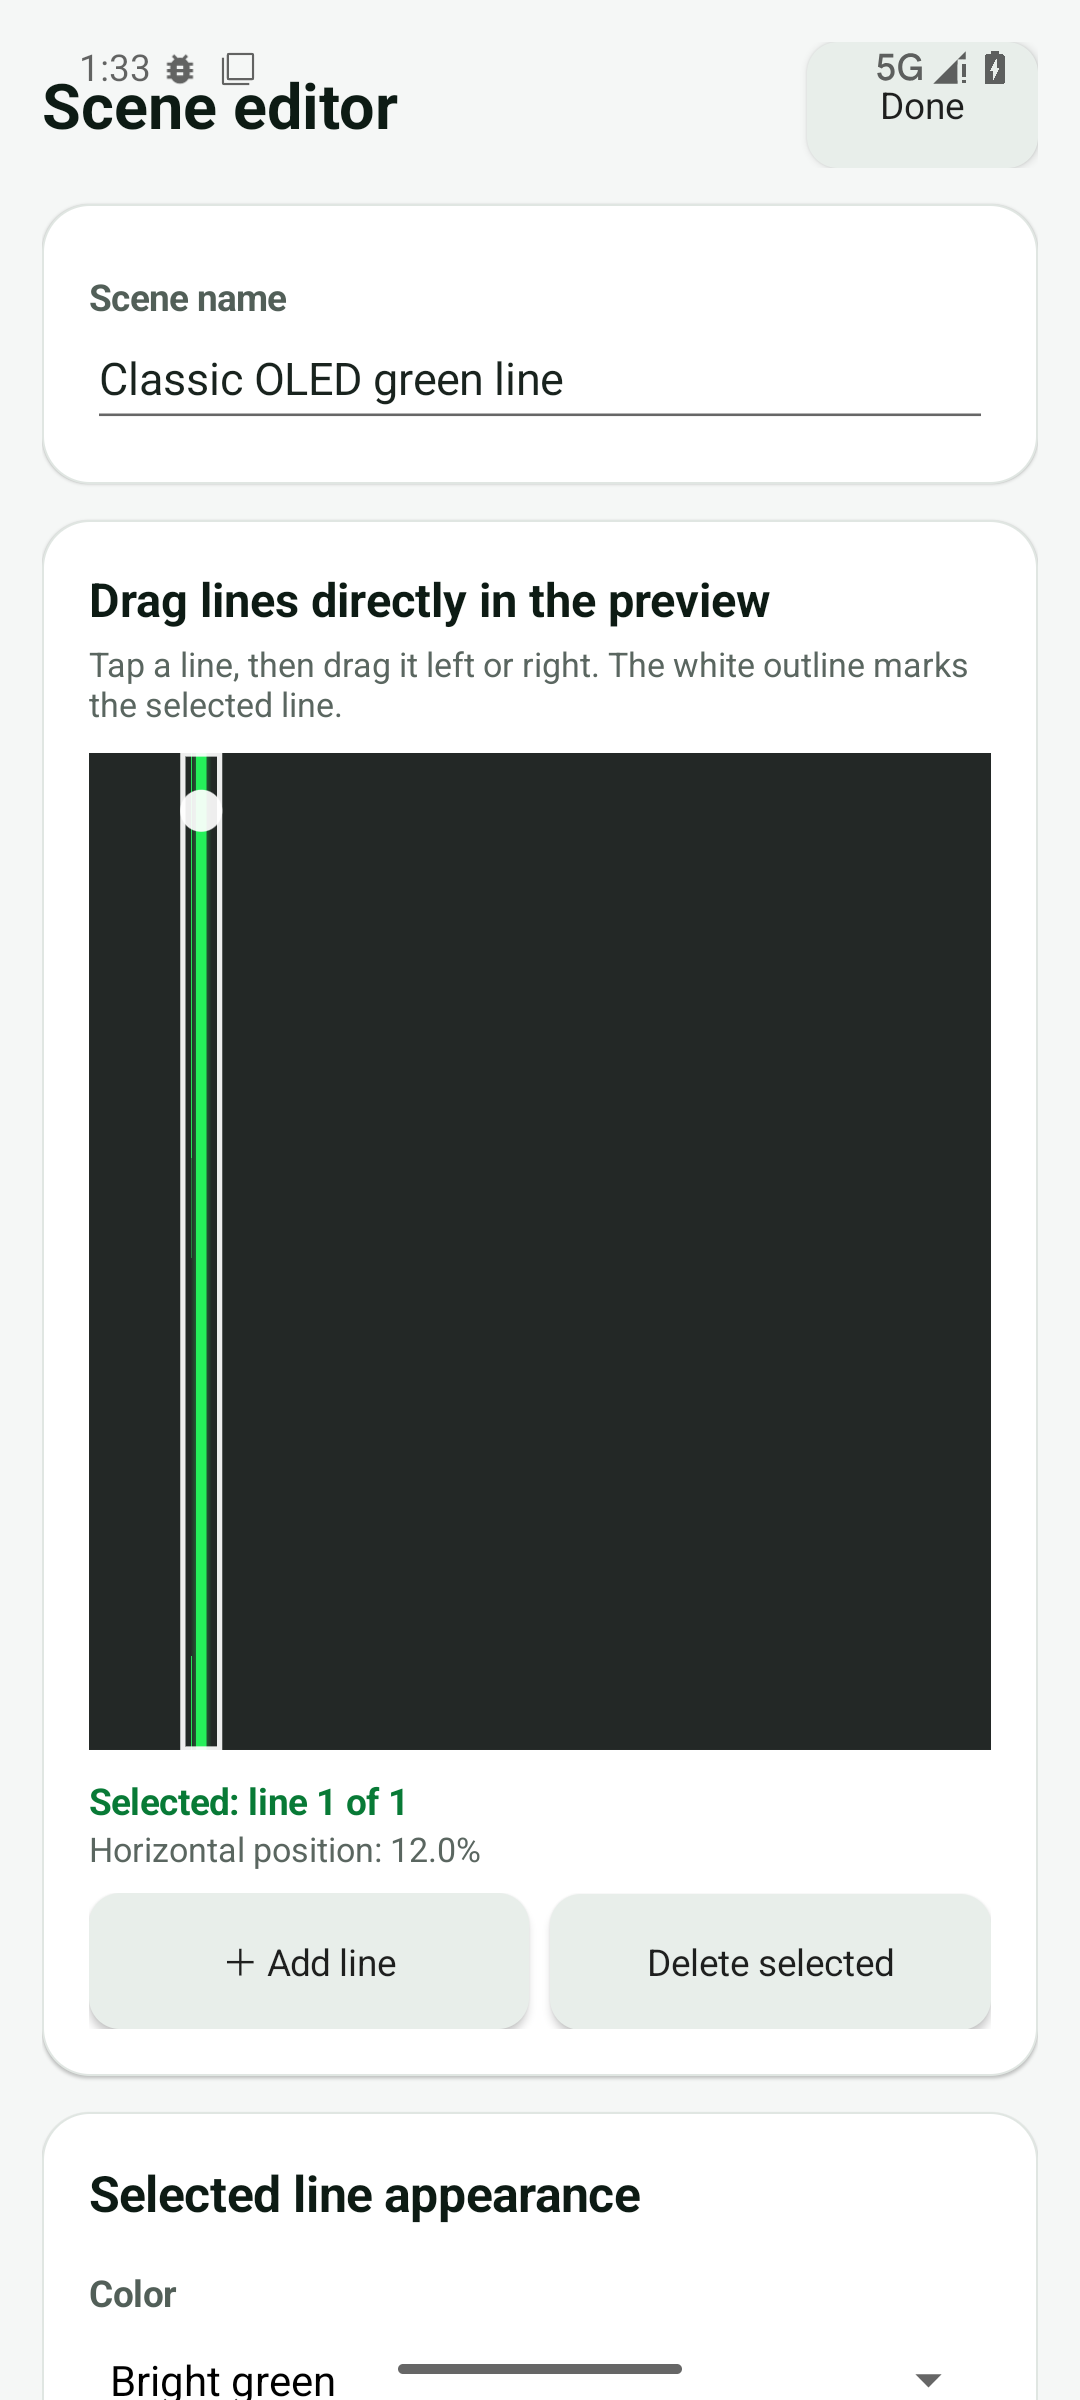
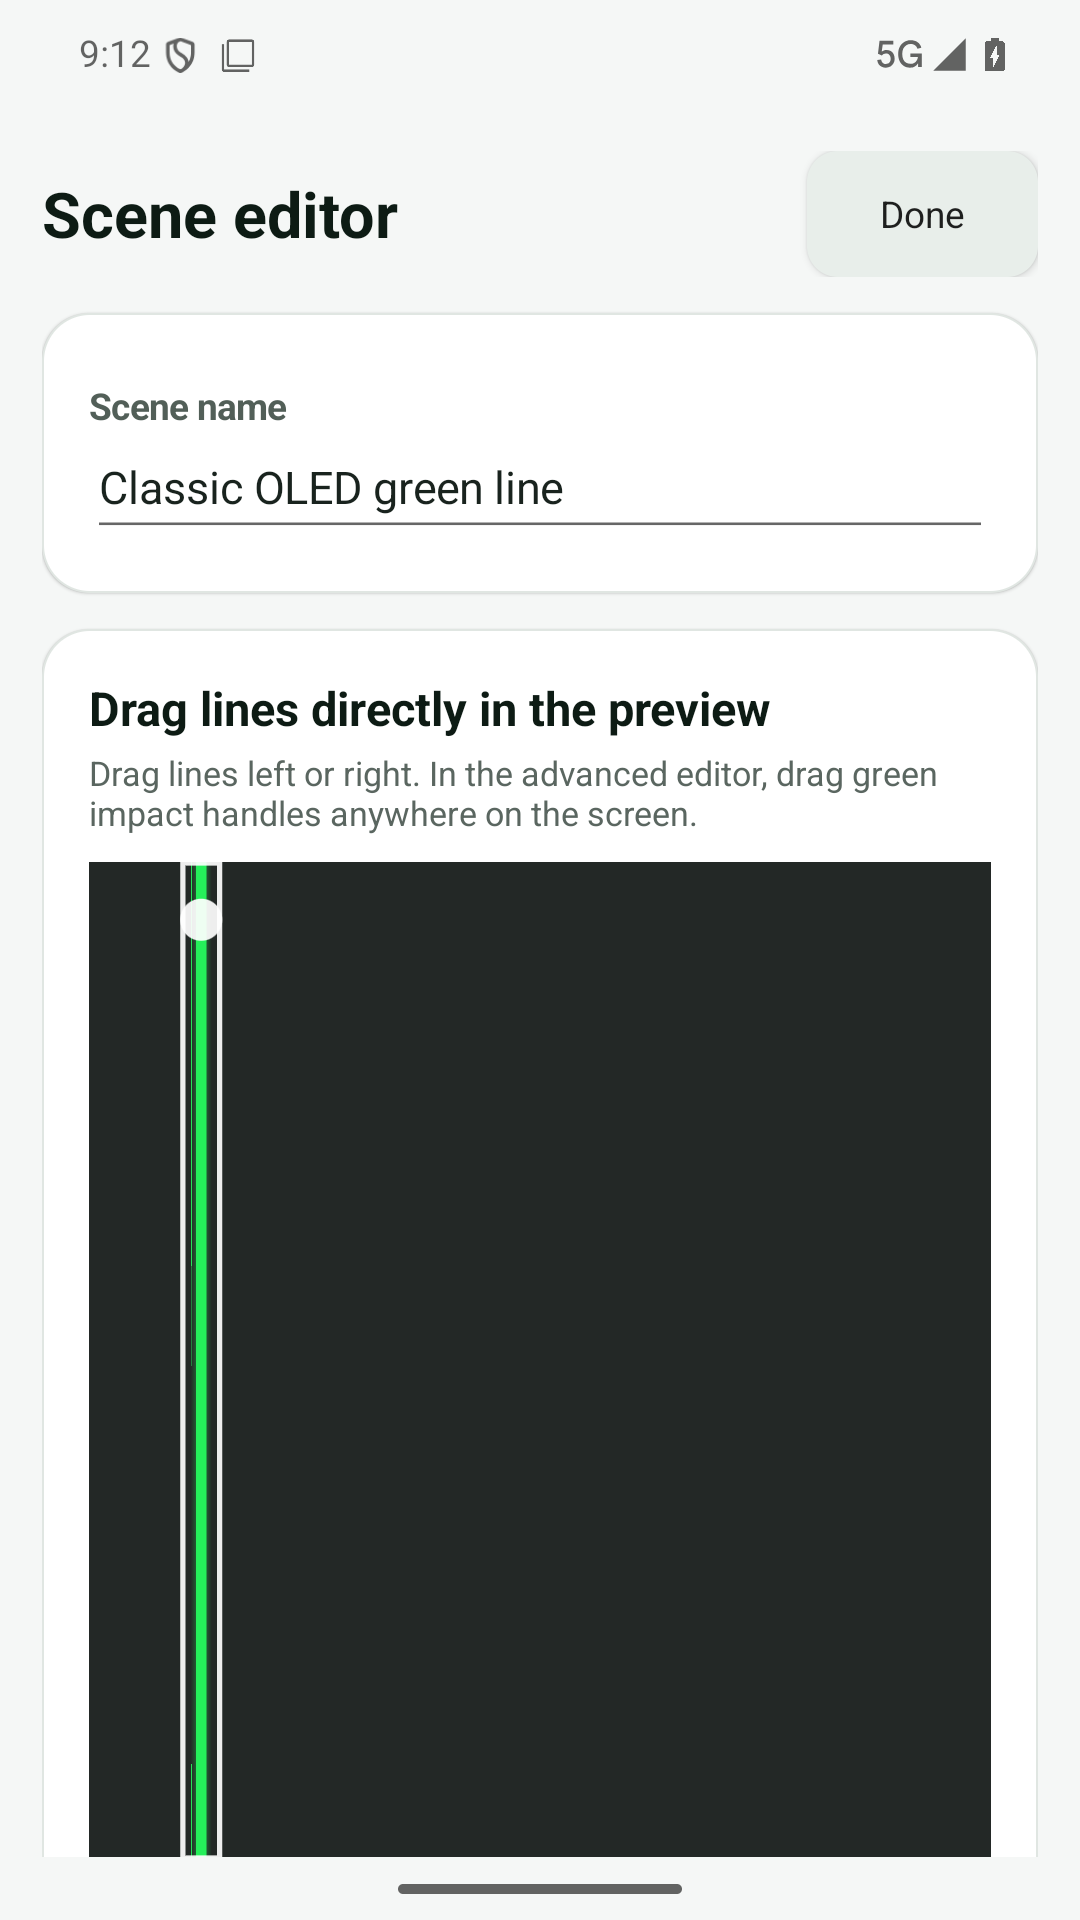
Refresh GitHub screenshots for v1.9.0

diff --git a/README.en.md b/README.en.md
@@ -12,15 +12,15 @@ Display Fault Simulator is an Android app that recreates common panel-failure vi
 
 ## Screenshots
 
-These screenshots were captured from real builds running on an Android 16 emulator. The overlay screenshot confirms that the line reaches the physical top and bottom display bounds, including the status and navigation-bar areas.
+All images below were captured from the v1.9.0 release APK running on an Android 16 emulator. They are not composited mockups.
 
-| Full-screen overlay | Scene editor |
+| v1.9.0 Traditional Chinese settings | v1.9.0 English settings |
 | --- | --- |
-| <img src="docs/screenshots/overlay-en.png" width="300" alt="Green OLED line spanning the full Android home screen"> | <img src="docs/screenshots/editor-en.png" width="300" alt="Scene editor with direct line dragging"> |
+| <img src="docs/screenshots/main-zh-TW.png" width="300" alt="Display Fault Simulator v1.9.0 modern Traditional Chinese settings screen"> | <img src="docs/screenshots/main-en.png" width="300" alt="Display Fault Simulator v1.9.0 modern English settings screen"> |
 
-| English interface | Traditional Chinese interface |
+| Drag scene editor | Deep-black left-edge panel rupture |
 | --- | --- |
-| <img src="docs/screenshots/main-en.png" width="300" alt="Display Fault Simulator English interface"> | <img src="docs/screenshots/main-zh-TW.png" width="300" alt="螢幕故障模擬器繁體中文介面"> |
+| <img src="docs/screenshots/editor-en.png" width="300" alt="v1.9.0 scene editor with direct line dragging"> | <img src="docs/screenshots/preset-left-edge-shatter.png" width="300" alt="Irregular deep-black panel rupture attached to the left display edge"> |
 
 ### Preset effects
 
@@ -33,10 +33,6 @@ These are real full-screen captures from the Android 16 emulator, not composited
 | Heavy dead pixels | Aged LCD scanlines | Severe damage |
 | --- | --- | --- |
 | <img src="docs/screenshots/preset-dead-pixels.png" width="220" alt="Heavy dead pixels preset"> | <img src="docs/screenshots/preset-old-lcd.png" width="220" alt="Aged LCD scanlines preset"> | <img src="docs/screenshots/preset-severe-damage.png" width="220" alt="Severe composite damage preset"> |
-
-| Severe left-edge shatter with black panel rupture |
-| --- |
-| <img src="docs/screenshots/preset-left-edge-shatter.png" width="300" alt="Irregular deep-black panel rupture growing from the left display edge"> |
 
 ## Highlights
 

diff --git a/docs/release-notes-v1.9.0.md b/docs/release-notes-v1.9.0.md
@@ -14,4 +14,8 @@
 - Fixed settings UI overlap with status bars, display cutouts, and navigation bars on Android 15/16
 - Added five left-edge crack presets for foldables: upper corner, lower edge, hinge hairlines, multiple impacts, and severe shatter
 - Replaced translucent geometric shards with irregular deep-black panel ruptures and LCD bleed attached to the display edge
-- Preserved full-screen coverage, hardware-coordinate anchoring, and complete touch-through behavior
+- Preserved full-screen coverage, hardware-coordinate anchoring, and complete touch-through behavior`r`n`r`n## Screenshots
+
+| Modern settings | Scene editor | Left-edge panel rupture |
+| --- | --- | --- |
+| ![Modern Traditional Chinese settings](https://raw.githubusercontent.com/ahui3c/DisplayFaultSimulator_Android/main/docs/screenshots/main-zh-TW.png) | ![Scene editor](https://raw.githubusercontent.com/ahui3c/DisplayFaultSimulator_Android/main/docs/screenshots/editor-en.png) | ![Deep-black left-edge panel rupture](https://raw.githubusercontent.com/ahui3c/DisplayFaultSimulator_Android/main/docs/screenshots/preset-left-edge-shatter.png) |
